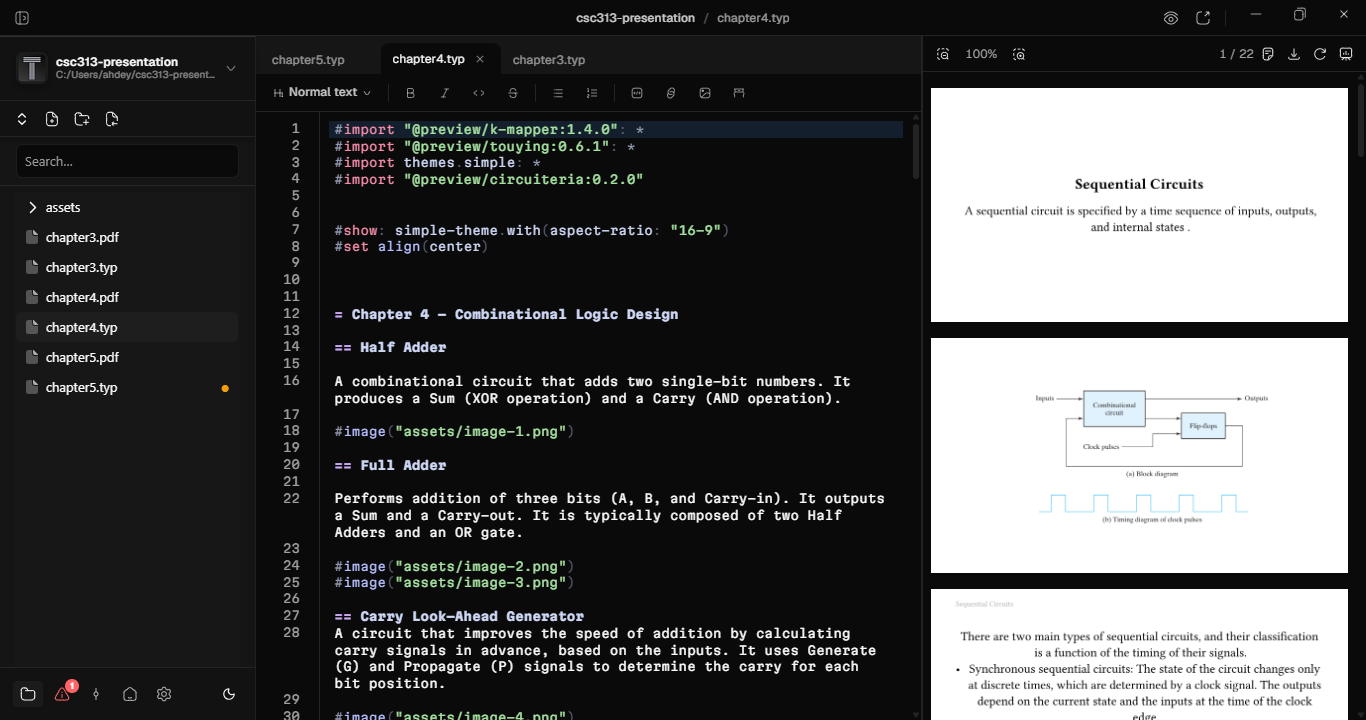
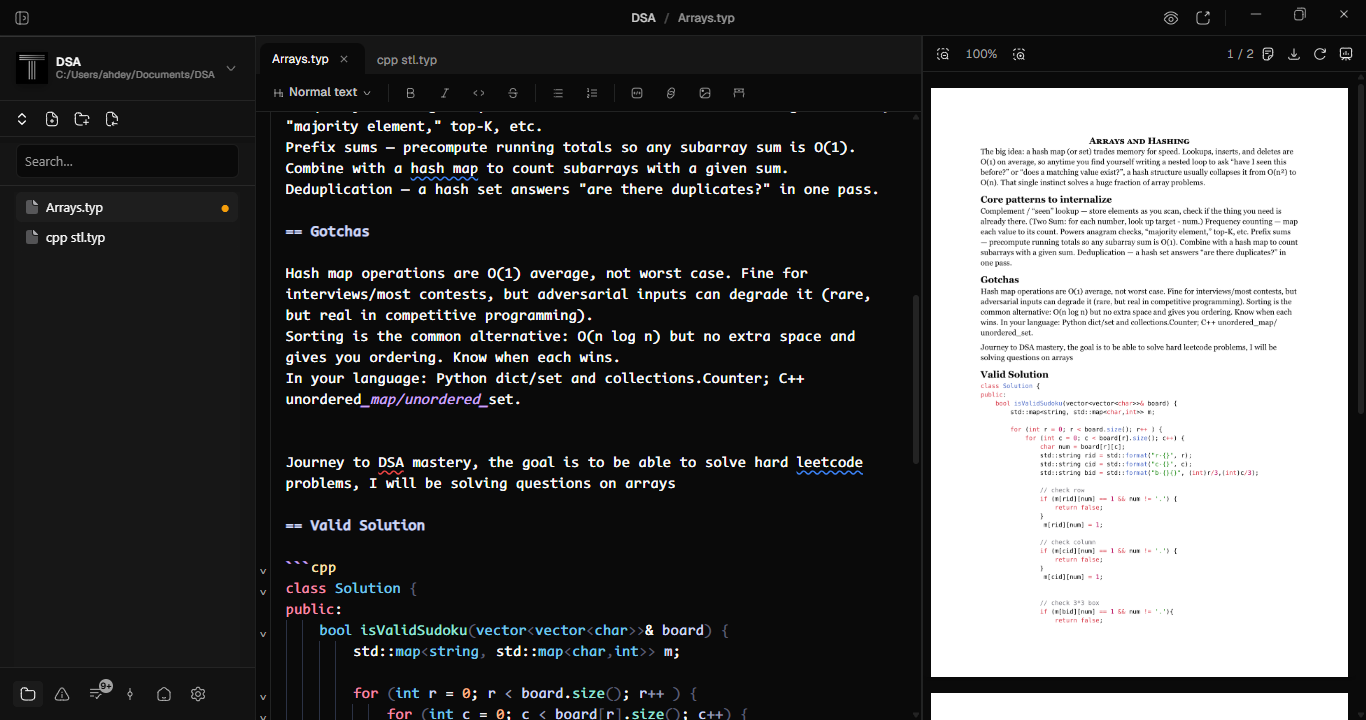
Update Typwriter web page with new features
- Rework the homepage to spotlight new capabilities:
  grammar & spell check, formatting, restore points, and HTML export.
- Switch icons and sections to use TextCheckIcon, MagicWand01Icon, and
  GitCommitIcon;
  remove outdated FolderOpenIcon and LaptopIcon usage.
- Reorder OS release blocks to show Linux first and macOS second; add
  unsigned badge and Gatekeeper guide link.
- Add MACOS_UNSIGNED_GUIDE_URL helper and display unsigned macOS notice.
- Update export copy to include HTML; adjust related assets and text.
- Refresh showcase images to reflect new visuals.

diff --git a/apps/typwriter-web/src/routes/+page.svelte b/apps/typwriter-web/src/routes/+page.svelte
@@ -10,14 +10,16 @@
 		ViewIcon,
 		ArrowDataTransferHorizontalIcon,
 		FlashIcon,
-		FolderOpenIcon,
 		FileExportIcon,
 		Download04Icon,
 		Apple01Icon,
 		ComputerIcon,
 		SourceCodeIcon,
 		AndroidIcon,
-		LaptopIcon
+		LaptopIcon,
+		TextCheckIcon,
+		MagicWand01Icon,
+		GitCommitIcon
 	} from '@hugeicons/core-free-icons';
 
 	import showcaseDark from '$lib/assets/showcase_dark.png';
@@ -27,6 +29,9 @@
 
 	const GITHUB_URL = 'https://github.com/Ahdeyyy/typwriter';
 	const RELEASES_URL = 'https://github.com/Ahdeyyy/typwriter/releases/latest';
+	// The macOS build is unsigned, so Gatekeeper blocks it on first launch.
+	const MACOS_UNSIGNED_GUIDE_URL =
+		'https://github.com/st235/macos-unverified-signature-apps-installation';
 
 	const assets = $derived(data.release?.assets ?? []);
 	const version = $derived(data.release?.tag_name ?? null);
@@ -87,7 +92,7 @@
 			icon: SourceCodeIcon,
 			title: 'Syntax highlighting',
 			description:
-				'Full Typst highlighting across markup, math, and code blocks, so the source stays easy to read and navigate.'
+				'Full Typst highlighting across markup, math, and code blocks — plus the embedded languages inside raw code fences.'
 		},
 		{
 			icon: ArrowDataTransferHorizontalIcon,
@@ -99,19 +104,31 @@
 			icon: FlashIcon,
 			title: 'Autocomplete & docs',
 			description:
-				'Context-aware suggestions and inline documentation surface the right symbol while you write, not after you guess.'
+				'Context-aware suggestions, hover documentation, and go-to-definition. Point it at tinymist for a full language server.'
 		},
 		{
-			icon: FolderOpenIcon,
-			title: 'Workspaces',
+			icon: TextCheckIcon,
+			title: 'Grammar & spell check',
 			description:
-				'Organise documents as projects. Pick up where you left off from a recent-workspaces list, on every device.'
+				'Harper checks your prose entirely on your machine — no text leaves the app. Pick a dialect, add words to your dictionary.'
+		},
+		{
+			icon: MagicWand01Icon,
+			title: 'Formatting',
+			description:
+				'Typstyle formats the file, the selection, or every .typ file in the workspace. Run it on save if you prefer.'
+		},
+		{
+			icon: GitCommitIcon,
+			title: 'Restore points',
+			description:
+				'Local snapshots taken on save or on a successful compile. Diff any two, then roll back a single file or the whole workspace.'
 		},
 		{
 			icon: FileExportIcon,
 			title: 'Export anywhere',
 			description:
-				'Generate pixel-perfect PDF, SVG, or PNG output from the current document in one click.'
+				'Generate pixel-perfect PDF, SVG, PNG, or HTML output from the current document in one click.'
 		}
 	];
 </script>
@@ -120,7 +137,7 @@
 	<title>Typwriter — a Typst editor for desktop and mobile</title>
 	<meta
 		name="description"
-		content="Typwriter is a Typst editor for Windows, macOS, Linux, and Android. Live preview, syntax highlighting, autocomplete, and export to PDF, SVG, or PNG."
+		content="Typwriter is a Typst editor for Windows, macOS, Linux, and Android. Live preview, syntax highlighting, autocomplete, offline grammar checking, restore points, and export to PDF, SVG, PNG, or HTML."
 	/>
 </svelte:head>
 
@@ -130,7 +147,7 @@
 
 	<p class="mx-auto mb-10 max-w-xl text-base text-muted-foreground sm:text-lg">
 		A Typst editor for Windows, macOS, Linux, and Android*. Write with syntax highlighting and
-		autocomplete, watch your document render as you type, and export to PDF, SVG, or PNG.
+		autocomplete, watch your document render as you type, and export to PDF, SVG, PNG, or HTML.
 	</p>
 
 	<div class="flex flex-wrap items-center justify-center gap-3">
@@ -231,34 +248,6 @@
 			{/if}
 		</div>
 
-		<!-- macOS -->
-		<div class="flex flex-col gap-3">
-			<div class="flex items-center gap-2 text-sm font-medium">
-				<HugeiconsIcon icon={Apple01Icon} size={15} class="text-muted-foreground" />
-				macOS
-			</div>
-			{#if macosAssets.length > 0}
-				{#each macosAssets as asset (asset.name)}
-					<Button
-						variant="outline"
-						class="h-auto justify-between px-4 py-3"
-						href={asset.browser_download_url}
-					>
-						<span class="flex items-center gap-2">
-							<HugeiconsIcon icon={Download04Icon} size={14} />
-							{assetLabel(asset.name)}
-						</span>
-						<span class="text-xs text-muted-foreground">{formatSize(asset.size)}</span>
-					</Button>
-				{/each}
-			{:else}
-				<Button variant="outline" href={RELEASES_URL} target="_blank" rel="noopener noreferrer">
-					<HugeiconsIcon icon={Download04Icon} size={14} class="mr-2" />
-					View macOS releases
-				</Button>
-			{/if}
-		</div>
-
 		<!-- Linux -->
 		<div class="flex flex-col gap-3">
 			<div class="flex items-center gap-2 text-sm font-medium">
@@ -283,6 +272,51 @@
 				<Button variant="outline" href={RELEASES_URL} target="_blank" rel="noopener noreferrer">
 					<HugeiconsIcon icon={Download04Icon} size={14} class="mr-2" />
 					View Linux releases
+				</Button>
+			{/if}
+		</div>
+
+		<!-- macOS -->
+		<div class="flex flex-col gap-3">
+			<div class="flex items-center gap-2 text-sm font-medium">
+				<HugeiconsIcon icon={Apple01Icon} size={15} class="text-muted-foreground" />
+				macOS
+				<span
+					class="rounded border border-amber-500/40 bg-amber-500/10 px-1.5 py-0.5 text-[0.625rem] font-medium tracking-wide text-amber-600 uppercase dark:text-amber-400"
+				>
+					Unsigned
+				</span>
+			</div>
+			<p class="text-xs text-muted-foreground">
+				The macOS build isn't code-signed, so Gatekeeper will refuse to open it on first launch.
+				<a
+					href={MACOS_UNSIGNED_GUIDE_URL}
+					target="_blank"
+					rel="noopener noreferrer"
+					class="text-foreground underline underline-offset-2 transition-colors hover:text-muted-foreground"
+				>
+					Follow this guide
+				</a>
+				to install it anyway.
+			</p>
+			{#if macosAssets.length > 0}
+				{#each macosAssets as asset (asset.name)}
+					<Button
+						variant="outline"
+						class="h-auto justify-between px-4 py-3"
+						href={asset.browser_download_url}
+					>
+						<span class="flex items-center gap-2">
+							<HugeiconsIcon icon={Download04Icon} size={14} />
+							{assetLabel(asset.name)}
+						</span>
+						<span class="text-xs text-muted-foreground">{formatSize(asset.size)}</span>
+					</Button>
+				{/each}
+			{:else}
+				<Button variant="outline" href={RELEASES_URL} target="_blank" rel="noopener noreferrer">
+					<HugeiconsIcon icon={Download04Icon} size={14} class="mr-2" />
+					View macOS releases
 				</Button>
 			{/if}
 		</div>
